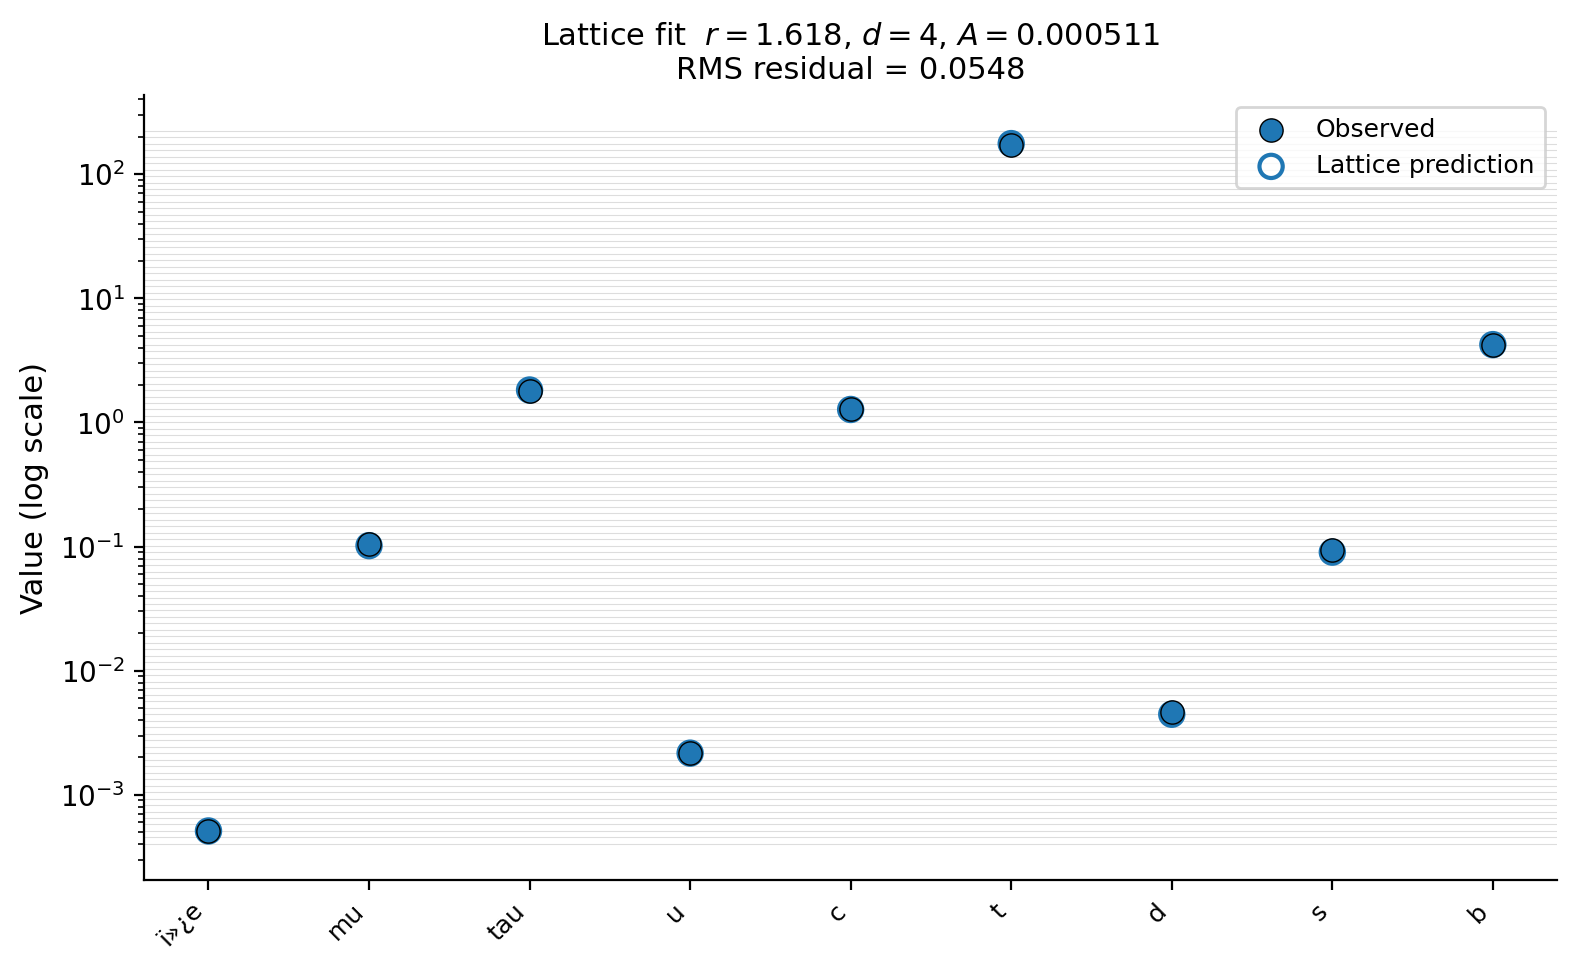
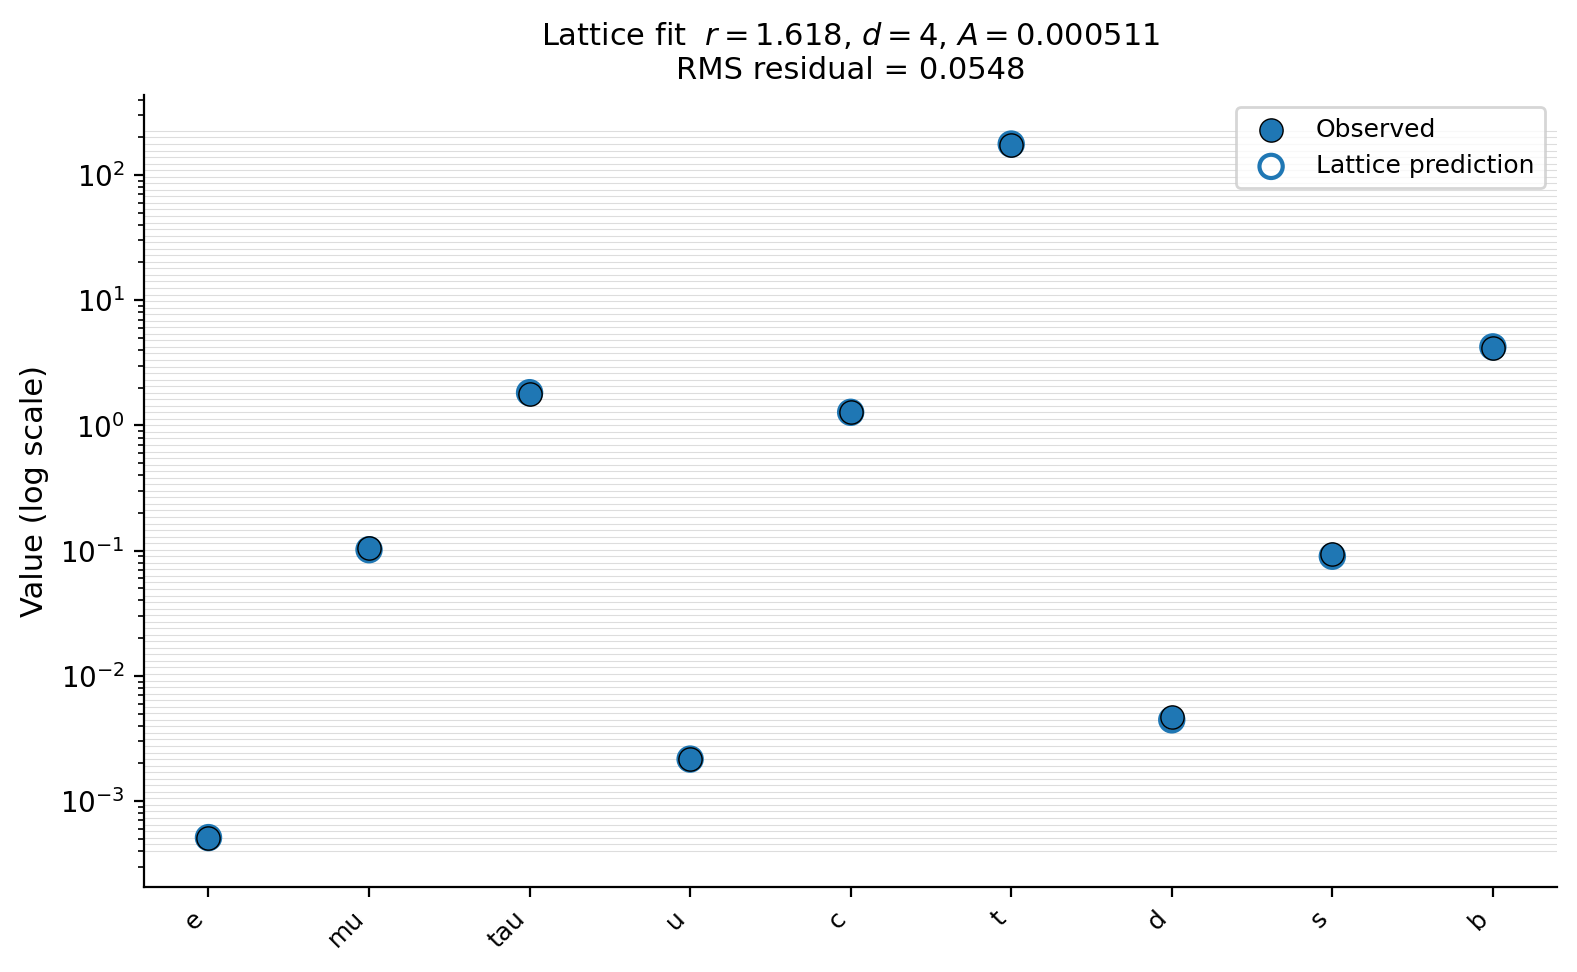
v0.1.1: Phase 1 polish
- Add --cite flag with BibTeX output
- Fix HTML report: white-space:nowrap on table cells
- Add downloadable CSV button to HTML reports
- Add .gitignore (removes build artifacts, plots, reports from tracking)
- --version and --json already present

Changed region(s): [[0.0, 0.1543, 0.9943, 0.9877], [0.1864, 0.9568, 0.2175, 0.9877]]

diff --git a/report.html b/report.html
@@ -26,7 +26,7 @@
 <body>
 <h1>LatticeFit Analysis Report</h1>
 <div class="meta">
-  Generated: 2026-03-22 11:07 &nbsp;|&nbsp;
+  Generated: 2026-03-22 11:10 &nbsp;|&nbsp;
   Base: 1.61803 &nbsp;|&nbsp;
   Denominator: d = 4 &nbsp;|&nbsp;
   Anchor: A = 0.000511 &nbsp;|&nbsp;
@@ -42,7 +42,7 @@ fraction used = 43.9%)</span></p>
 <table>
   <tr><th>Name</th><th>Observed</th><th>k</th><th>Predicted</th>
       <th>Residual δ</th><th>|Δ|/m</th></tr>
-  <tr><td>ï»¿e</td><td>0.000511</td><td>0</td><td>0.000511</td><td><div style='display:flex;align-items:center;gap:6px'><div style='width:0px;height:10px;background:#4a90d9;border-radius:3px'></div>0.0000</div></td><td>0.0%</td></tr>
+  <tr><td>e</td><td>0.000511</td><td>0</td><td>0.000511</td><td><div style='display:flex;align-items:center;gap:6px'><div style='width:0px;height:10px;background:#4a90d9;border-radius:3px'></div>0.0000</div></td><td>0.0%</td></tr>
 <tr><td>mu</td><td>0.10566</td><td>44</td><td>0.10169</td><td><div style='display:flex;align-items:center;gap:6px'><div style='width:76px;height:10px;background:#4a90d9;border-radius:3px'></div>0.0795</div></td><td>3.8%</td></tr>
 <tr><td>tau</td><td>1.7769</td><td>68</td><td>1.8248</td><td><div style='display:flex;align-items:center;gap:6px'><div style='width:53px;height:10px;background:#4a90d9;border-radius:3px'></div>0.0553</div></td><td>2.7%</td></tr>
 <tr><td>u</td><td>0.00216</td><td>12</td><td>0.0021646</td><td><div style='display:flex;align-items:center;gap:6px'><div style='width:4px;height:10px;background:#4a90d9;border-radius:3px'></div>0.0044</div></td><td>0.2%</td></tr>
@@ -60,10 +60,20 @@ fraction used = 43.9%)</span></p>
           <h3>Log-uniform null test</h3>
           <table class="stats">
             <tr><td>Observed RMS</td><td><b>0.05482</b></td></tr>
-            <tr><td>Null mean ± std</td><td>0.07153 ± 0.01113</td></tr>
+            <tr><td>Null mean ± std</td><td>0.07145 ± 0.01107</td></tr>
             <tr><td>Z-score</td><td>1.50</td></tr>
-            <tr><td>p-value</td><td><b>0.0698</b> — ~ marginal</td></tr>
-            <tr><td>Trials</td><td>5,000</td></tr>
+            <tr><td>p-value</td><td><b>0.0743</b> — ~ marginal</td></tr>
+            <tr><td>Trials</td><td>10,000</td></tr>
+          </table>
+        </div>
+        <div class="null-card">
+          <h3>Sector-anchor null test</h3>
+          <table class="stats">
+            <tr><td>Observed RMS</td><td><b>0.05482</b></td></tr>
+            <tr><td>Null mean ± std</td><td>0.07114 ± 0.01046</td></tr>
+            <tr><td>Z-score</td><td>1.56</td></tr>
+            <tr><td>p-value</td><td><b>0.0522</b> — ~ marginal</td></tr>
+            <tr><td>Trials</td><td>10,000</td></tr>
           </table>
         </div>
 

diff --git a/latticefit/cli.py b/latticefit/cli.py
@@ -122,6 +122,7 @@ def _make_html_report(result, nulls: list, params: dict) -> str:
     names = result.names or [str(i) for i in range(len(result.data))]
 
     rows = ""
+    csv_lines = ["name,observed,k,predicted,residual,pct_error"]
     for n, xo, k, xp, res in zip(names, result.data, result.labels,
                                    result.predicted, result.residuals):
         pct = abs(xo - xp) / xo * 100
@@ -134,6 +135,7 @@ def _make_html_report(result, nulls: list, params: dict) -> str:
             f"border-radius:3px'></div>{res:.4f}</div></td>"
             f"<td>{pct:.1f}%</td></tr>\n"
         )
+        csv_lines.append(f"{n},{xo:.6g},{k},{xp:.6g},{res:.5f},{pct:.2f}")
 
     null_html = ""
     for nt in nulls:
@@ -151,6 +153,7 @@ def _make_html_report(result, nulls: list, params: dict) -> str:
           </table>
         </div>"""
 
+    csv_content = "\n".join(csv_lines)
     base_name = {(1+5**0.5)/2: "φ (golden ratio)", 2.71828: "e",
                  2.0: "2", 10.0: "10"}.get(round(result.base, 4), f"{result.base:.6g}")
 
@@ -168,7 +171,7 @@ def _make_html_report(result, nulls: list, params: dict) -> str:
   .meta {{ background:#f4f8ff; border-left:4px solid #4a90d9;
            padding:12px 16px; border-radius:4px; font-size:0.9em }}
   table {{ border-collapse:collapse; width:100%; margin:12px 0 }}
-  th,td {{ padding:8px 12px; text-align:left; border-bottom:1px solid #e0e8f0 }}
+  th,td {{ padding:8px 12px; text-align:left; border-bottom:1px solid #e0e8f0; white-space:nowrap }}
   th    {{ background:#eaf2ff; font-weight:600 }}
   tr:hover {{ background:#f7faff }}
   .rms  {{ font-size:1.4em; color:#1a3a5c; font-weight:bold }}
@@ -200,6 +203,23 @@ fraction used = {result.rms/(0.5/result.denom)*100:.1f}%)</span></p>
       <th>Residual δ</th><th>|Δ|/m</th></tr>
   {rows}
 </table>
+<details style="margin-top:8px">
+  <summary style="cursor:pointer;color:#4a90d9;font-size:0.9em">
+    ▼ Download results as CSV
+  </summary>
+  <textarea id="csvdata" style="width:100%;height:120px;font-family:monospace;
+    font-size:0.8em;margin-top:6px;border:1px solid #dde;border-radius:4px;
+    padding:8px" readonly>{csv_content}</textarea>
+  <button onclick="
+    var a=document.createElement('a');
+    a.href='data:text/csv;charset=utf-8,'+
+    encodeURIComponent(document.getElementById('csvdata').value);
+    a.download='latticefit_results.csv';a.click();"
+    style="margin-top:6px;padding:6px 14px;background:#4a90d9;color:white;
+    border:none;border-radius:4px;cursor:pointer;font-size:0.9em">
+    ⬇ Download CSV
+  </button>
+</details>
 
 <h2>Statistical Validation</h2>
 {null_html if null_html else '<p style="color:#888"><i>No null tests run. Use --null N to add.</i></p>'}
@@ -298,8 +318,30 @@ examples:
     parser.add_argument("--quiet", "-q", action="store_true",
                         help="Suppress progress messages")
     parser.add_argument("--version", action="version", version="latticefit 0.1.0")
+    parser.add_argument("--cite", action="store_true",
+                        help="Print citation information and exit")
 
     args = parser.parse_args(argv)
+
+    # ── Cite mode ─────────────────────────────────────────────────
+    if args.cite:
+        print("""
+To cite LatticeFit in academic work, please use:
+
+  Gentry, M. L. (2026). LatticeFit: Discrete lattice fitting with
+  statistical validation (v0.1.0). GitHub.
+  https://github.com/drmlgentry/latticefit
+
+BibTeX:
+  @software{latticefit2026,
+    author  = {Gentry, Marvin L.},
+    title   = {{LatticeFit}: Discrete lattice fitting with statistical validation},
+    year    = {2026},
+    version = {0.1.0},
+    url     = {https://github.com/drmlgentry/latticefit}
+  }
+""")
+        return
 
     # ── Demo mode ─────────────────────────────────────────────────
     if args.demo:
